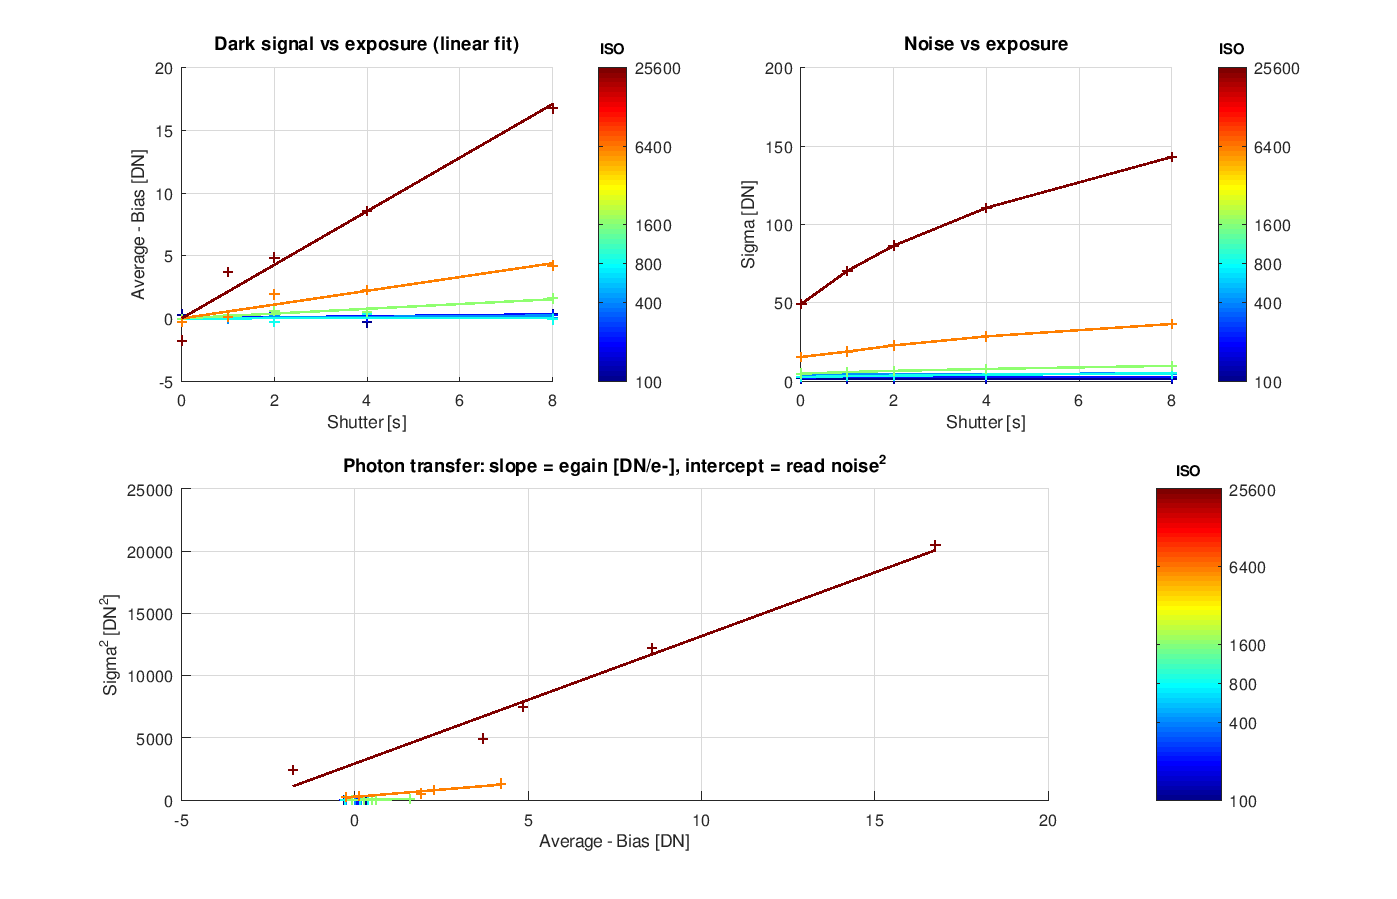
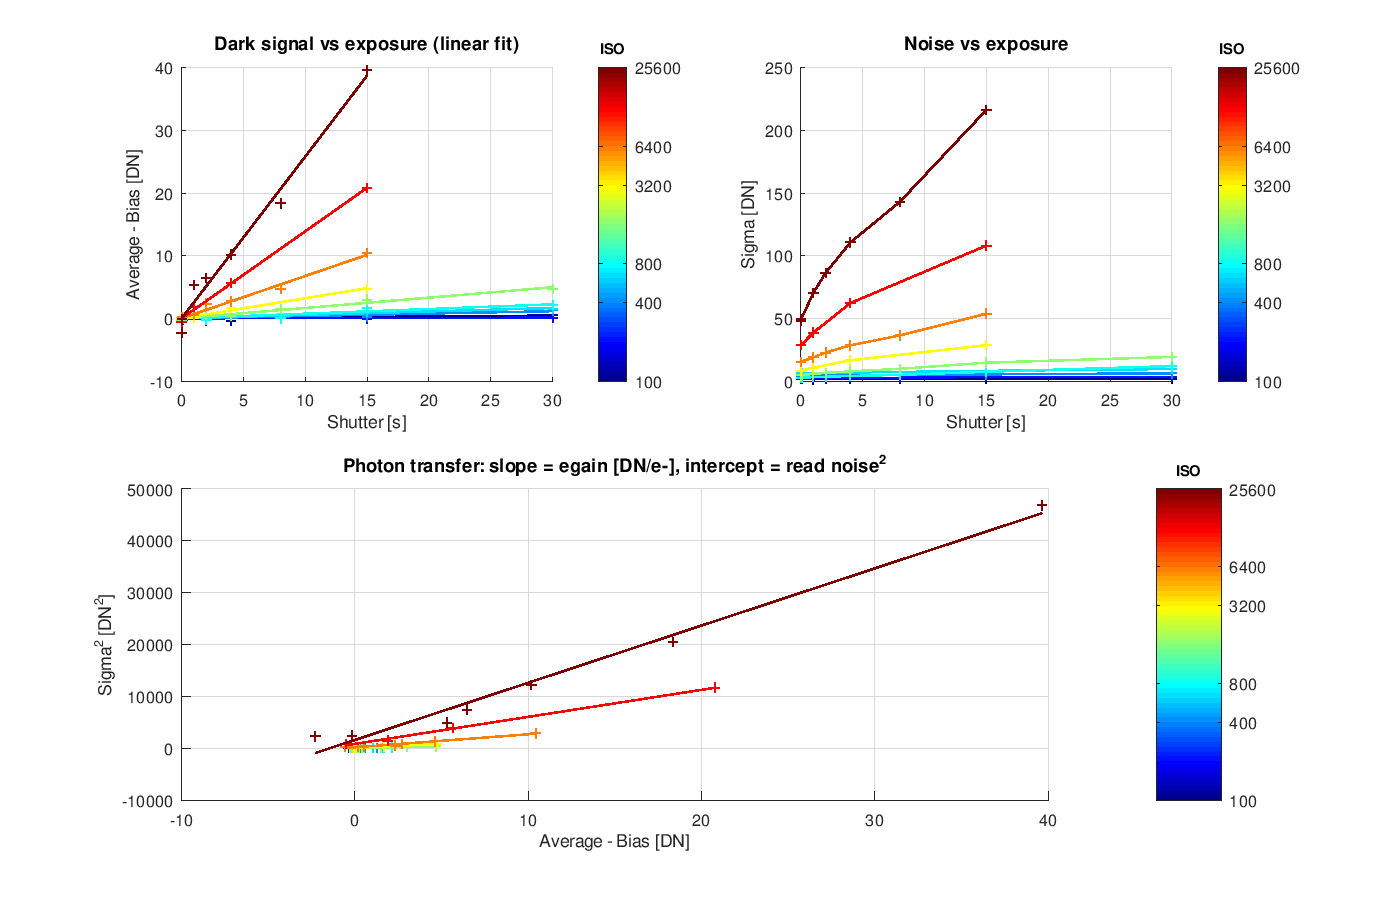
Update sensor_fit.m to handle varying exposure counts and improve NaN handling; add new data points to Nikon Z6 II CSV files

diff --git a/sensor_fit.m b/sensor_fit.m
@@ -10,18 +10,22 @@ function out = sensor_fit(data)
     #ISO = ISO(find(ISO > 500));
     #ISO = ISO(1:4);
     COLS = length(ISO);
-    ROWS = length(find(data(:, IDX_ISO) == ISO(1)));
+    ROWS = max(arrayfun(@(iso) sum(data(:, IDX_ISO) == iso), ISO));
 
+    % ISO settings may have a different number of exposures; missing entries are NaN
     out = {};
-    out.shutter = zeros(ROWS, COLS);
+    out.shutter = nan(ROWS, COLS);
+    out.average = nan(ROWS, COLS);
+    out.sigma   = nan(ROWS, COLS);
 
     for n = 1:COLS
         iso = ISO(n);
         idx = data(:, IDX_ISO) == iso;
+        k = sum(idx);
 
-        out.shutter(:, n) = data(idx, IDX_SHUTTER);
-        out.average(:, n) = data(idx, IDX_AVERAGE);
-        out.sigma(:, n)   = data(idx, IDX_SIGMA);
+        out.shutter(1:k, n) = data(idx, IDX_SHUTTER);
+        out.average(1:k, n) = data(idx, IDX_AVERAGE);
+        out.sigma(1:k, n)   = data(idx, IDX_SIGMA);
     end
 
     pf = polyfit_cols(out.shutter, out.average, 1);
@@ -70,7 +74,8 @@ function out = polyfit_cols(x, y, n)
     N = size(x)(2);
     out = zeros(2, N);
     for i=1:N
-        c = polyfit(x(:, i), y(:, i), n);
+        ok = ~isnan(x(:, i)) & ~isnan(y(:, i));
+        c = polyfit(x(ok, i), y(ok, i), n);
         out(:, i) = c;
     end
 end
